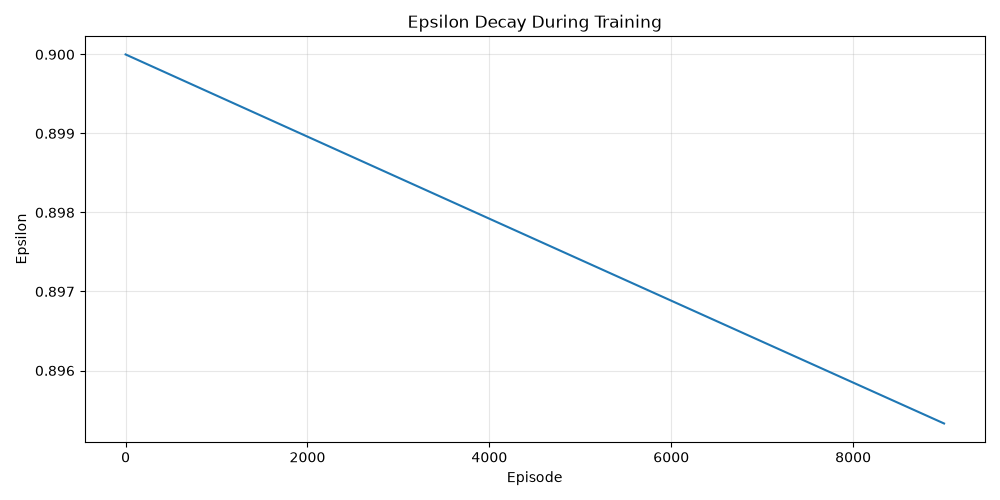
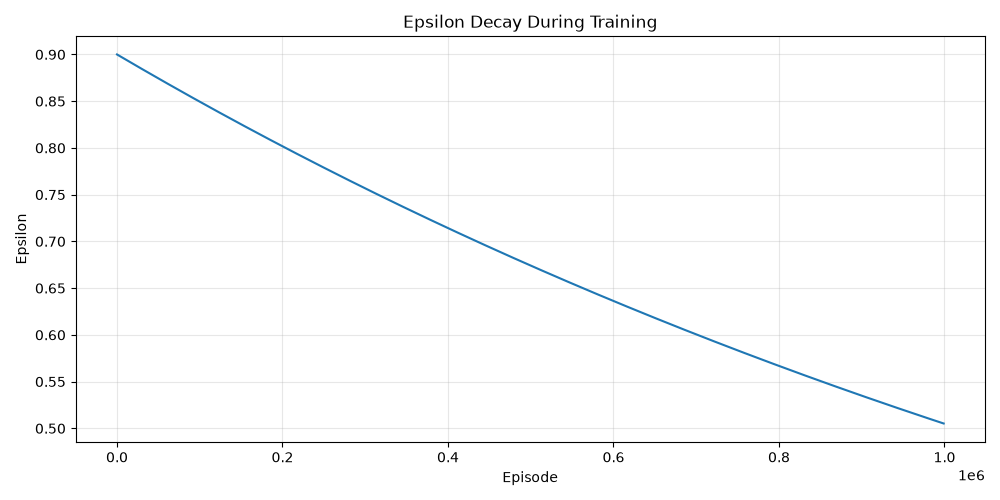
fixed comparison

diff --git a/main.py b/main.py
@@ -81,8 +81,8 @@ def main():
         "Random": evaluate(random_outcomes),
         "Rule-based": evaluate(rule_outcomes),
         }
-        compare(results)
-        plot_comparison(results,i)
+        compare(results, i)
+        plot_comparison(results)
 
 
 
